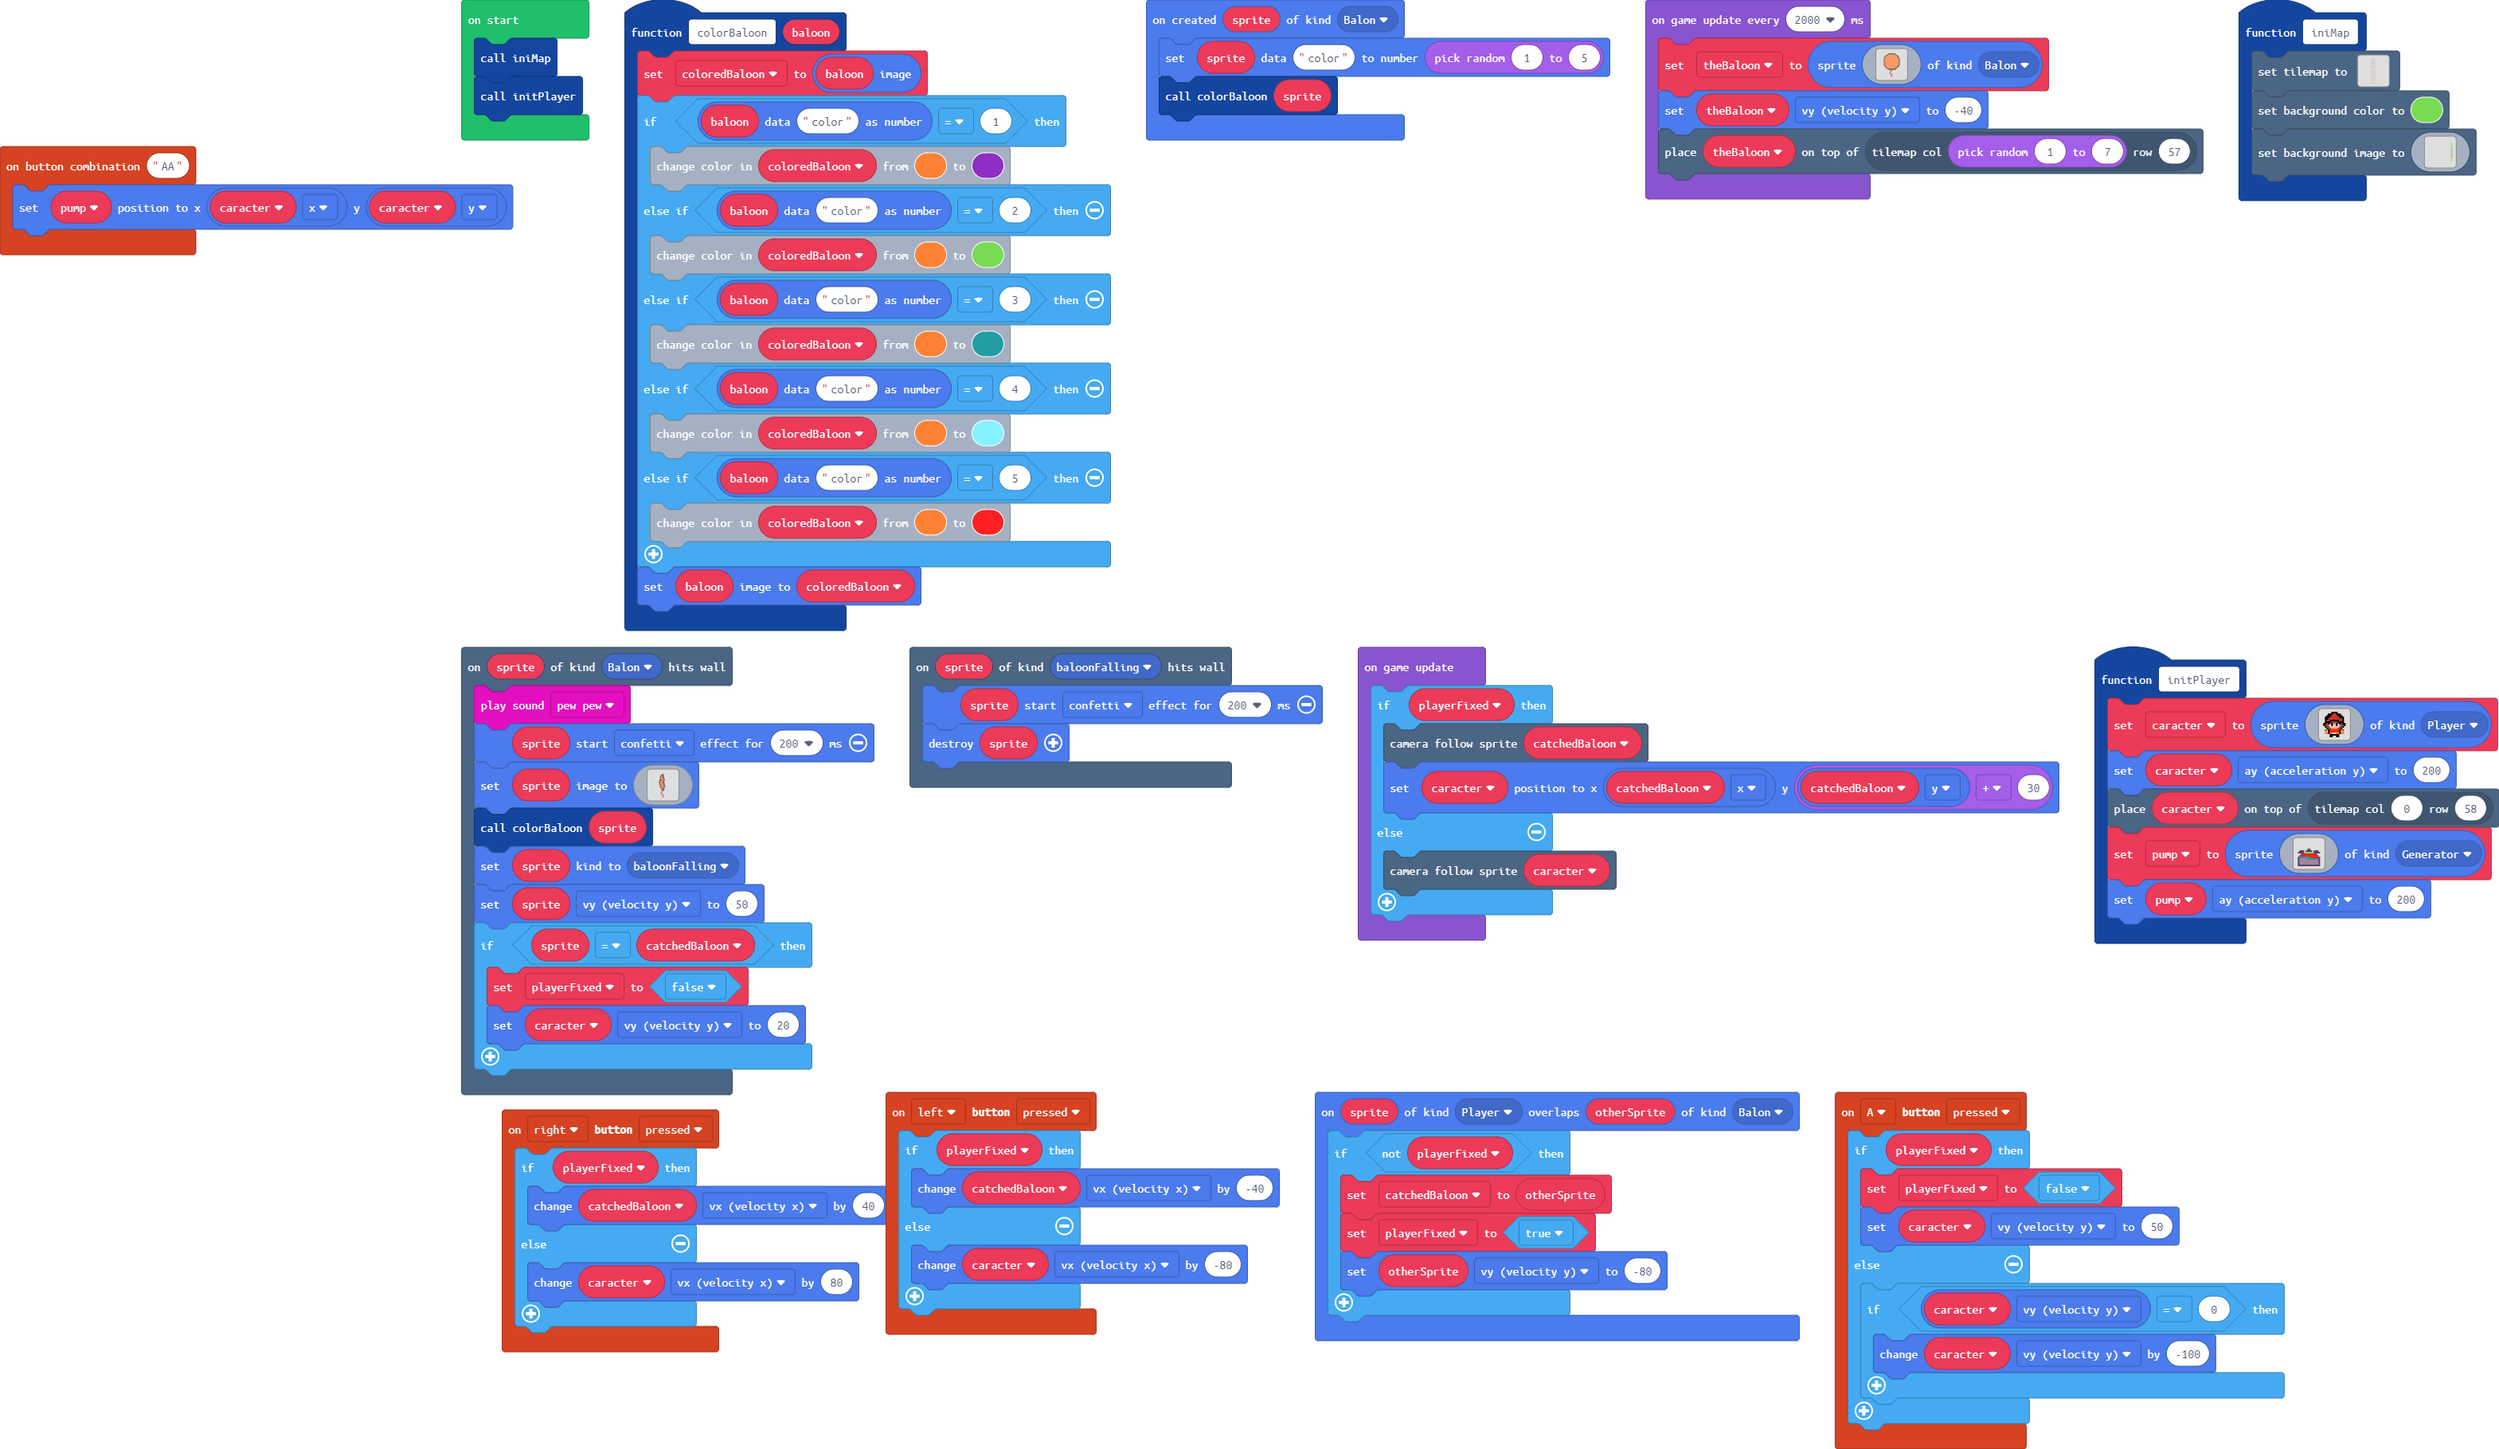
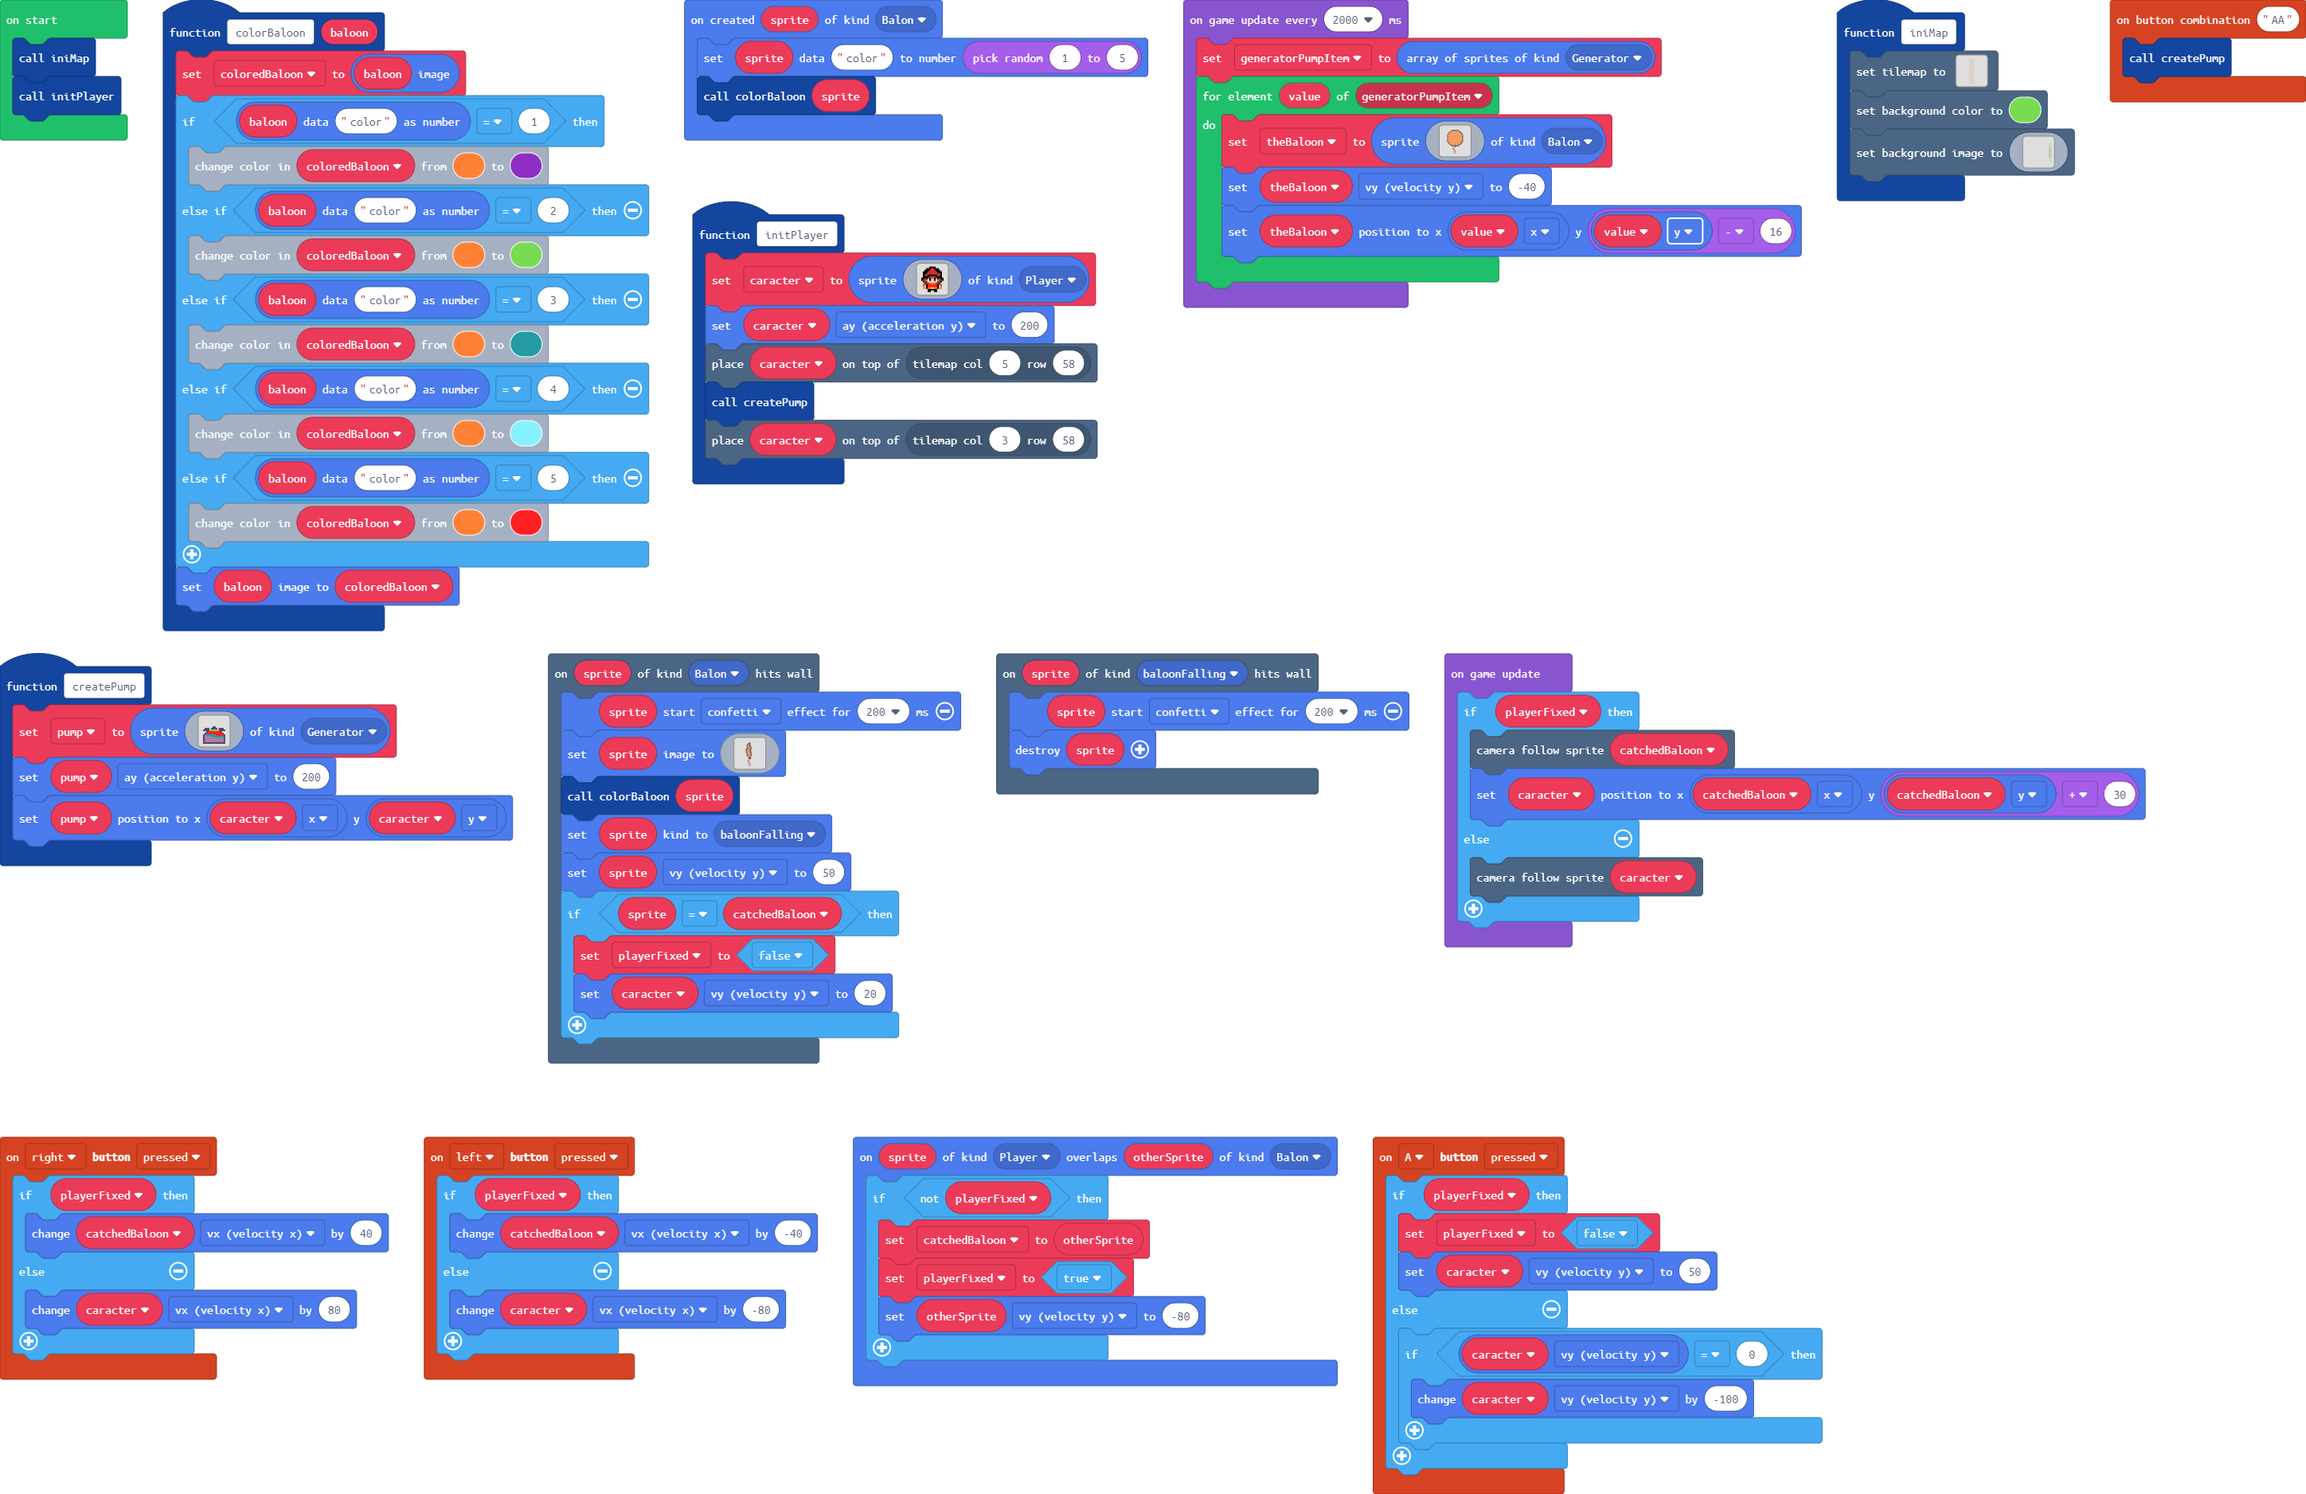
updated

diff --git a/main.ts b/main.ts
@@ -40,6 +40,28 @@ function colorBaloon (baloon: Sprite) {
     }
     baloon.setImage(coloredBaloon)
 }
+function createPump () {
+    pump = sprites.create(img`
+. . . . . . . . . . . . . . . . 
+. . . . . . . . . . . . . . . . 
+. . . . . . . . . . . . . . . . 
+. . . . . . . . . . . . . . . . 
+. . . . . . . . . . . . . . . . 
+. . . . . . . c c . . . . . . . 
+. . c c c . c c c c . c c c . . 
+. c c c c 7 7 7 7 7 7 c c c c . 
+. . . c 2 2 2 2 2 2 2 2 c . . . 
+. . c 2 2 2 2 2 2 2 2 2 2 c . . 
+. c 6 6 6 6 6 6 6 2 2 2 2 2 c . 
+. c b b b b b 6 6 6 6 6 6 6 c . 
+. c b b b b b b b b b b b b c . 
+. c b b b b b b b b b b b b c . 
+. c b b b b b b b b b b b b c . 
+. c c c c c c c c c c c c c c . 
+`, SpriteKind.Generator)
+    pump.ay = 200
+    pump.setPosition(caracter.x, caracter.y)
+}
 function iniMap () {
     tiles.setTilemap(tiles.createTilemap(
[1 lines of base64/hex data omitted]
@@ -259,32 +281,14 @@ function initPlayer () {
 . . . . . f f . . f f . . . . . 
 `, SpriteKind.Player)
     caracter.ay = 200
-    tiles.placeOnTile(caracter, tiles.getTileLocation(0, 58))
-    pump = sprites.create(img`
-. . . . . . . . . . . . . . . . 
-. . . . . . . . . . . . . . . . 
-. . . . . . . . . . . . . . . . 
-. . . . . . . . . . . . . . . . 
-. . . . . . . . . . . . . . . . 
-. . . . . . . c c . . . . . . . 
-. . c c c . c c c c . c c c . . 
-. c c c c 7 7 7 7 7 7 c c c c . 
-. . . c 2 2 2 2 2 2 2 2 c . . . 
-. . c 2 2 2 2 2 2 2 2 2 2 c . . 
-. c 6 6 6 6 6 6 6 2 2 2 2 2 c . 
-. c b b b b b 6 6 6 6 6 6 6 c . 
-. c b b b b b b b b b b b b c . 
-. c b b b b b b b b b b b b c . 
-. c b b b b b b b b b b b b c . 
-. c c c c c c c c c c c c c c . 
-`, SpriteKind.Generator)
-    pump.ay = 200
+    tiles.placeOnTile(caracter, tiles.getTileLocation(5, 58))
+    createPump()
+    tiles.placeOnTile(caracter, tiles.getTileLocation(3, 58))
 }
 controller.combos.attachCombo("AA", function () {
-    pump.setPosition(caracter.x, caracter.y)
+    createPump()
 })
 scene.onHitWall(SpriteKind.Balon, function (sprite) {
-    music.pewPew.play()
     sprite.startEffect(effects.confetti, 200)
     sprite.setImage(img`
 . . . . . . . . . . . . . . . . . . . . . . . . . 
@@ -369,15 +373,18 @@ sprites.onOverlap(SpriteKind.Player, SpriteKind.Balon, function (sprite, otherSp
     }
 })
 let theBaloon: Sprite = null
-let pump: Sprite = null
-let caracter: Sprite = null
+let generatorPumpItem: Sprite[] = []
 let catchedBaloon: Sprite = null
 let playerFixed = false
+let caracter: Sprite = null
+let pump: Sprite = null
 let coloredBaloon: Image = null
 iniMap()
 initPlayer()
 game.onUpdateInterval(2000, function () {
-    theBaloon = sprites.create(img`
+    generatorPumpItem = sprites.allOfKind(SpriteKind.Generator)
+    for (let value of generatorPumpItem) {
+        theBaloon = sprites.create(img`
 . . . . . . . . . . . . . . . . . . . . . . . . . 
 . . . . . . . . . . . . . . . . . . . . . . . . . 
 . . . . . . . . . . . . . . . . . . . . . . . . . 
@@ -419,8 +426,9 @@ f 4 4 4 4 4 4 4 4 4 4 4 4 4 4 4 4 4 4 4 4 4 4 4 f
 . . . . . . . . . . . e . . . . . . . . . . . . . 
 . . . . . . . . . . . . e . . . . . . . . . . . . 
 `, SpriteKind.Balon)
-    theBaloon.vy = -40
-    tiles.placeOnTile(theBaloon, tiles.getTileLocation(Math.randomRange(1, 7), 57))
+        theBaloon.vy = -40
+        theBaloon.setPosition(value.x, value.y - 16)
+    }
 })
 game.onUpdate(function () {
     if (playerFixed) {
